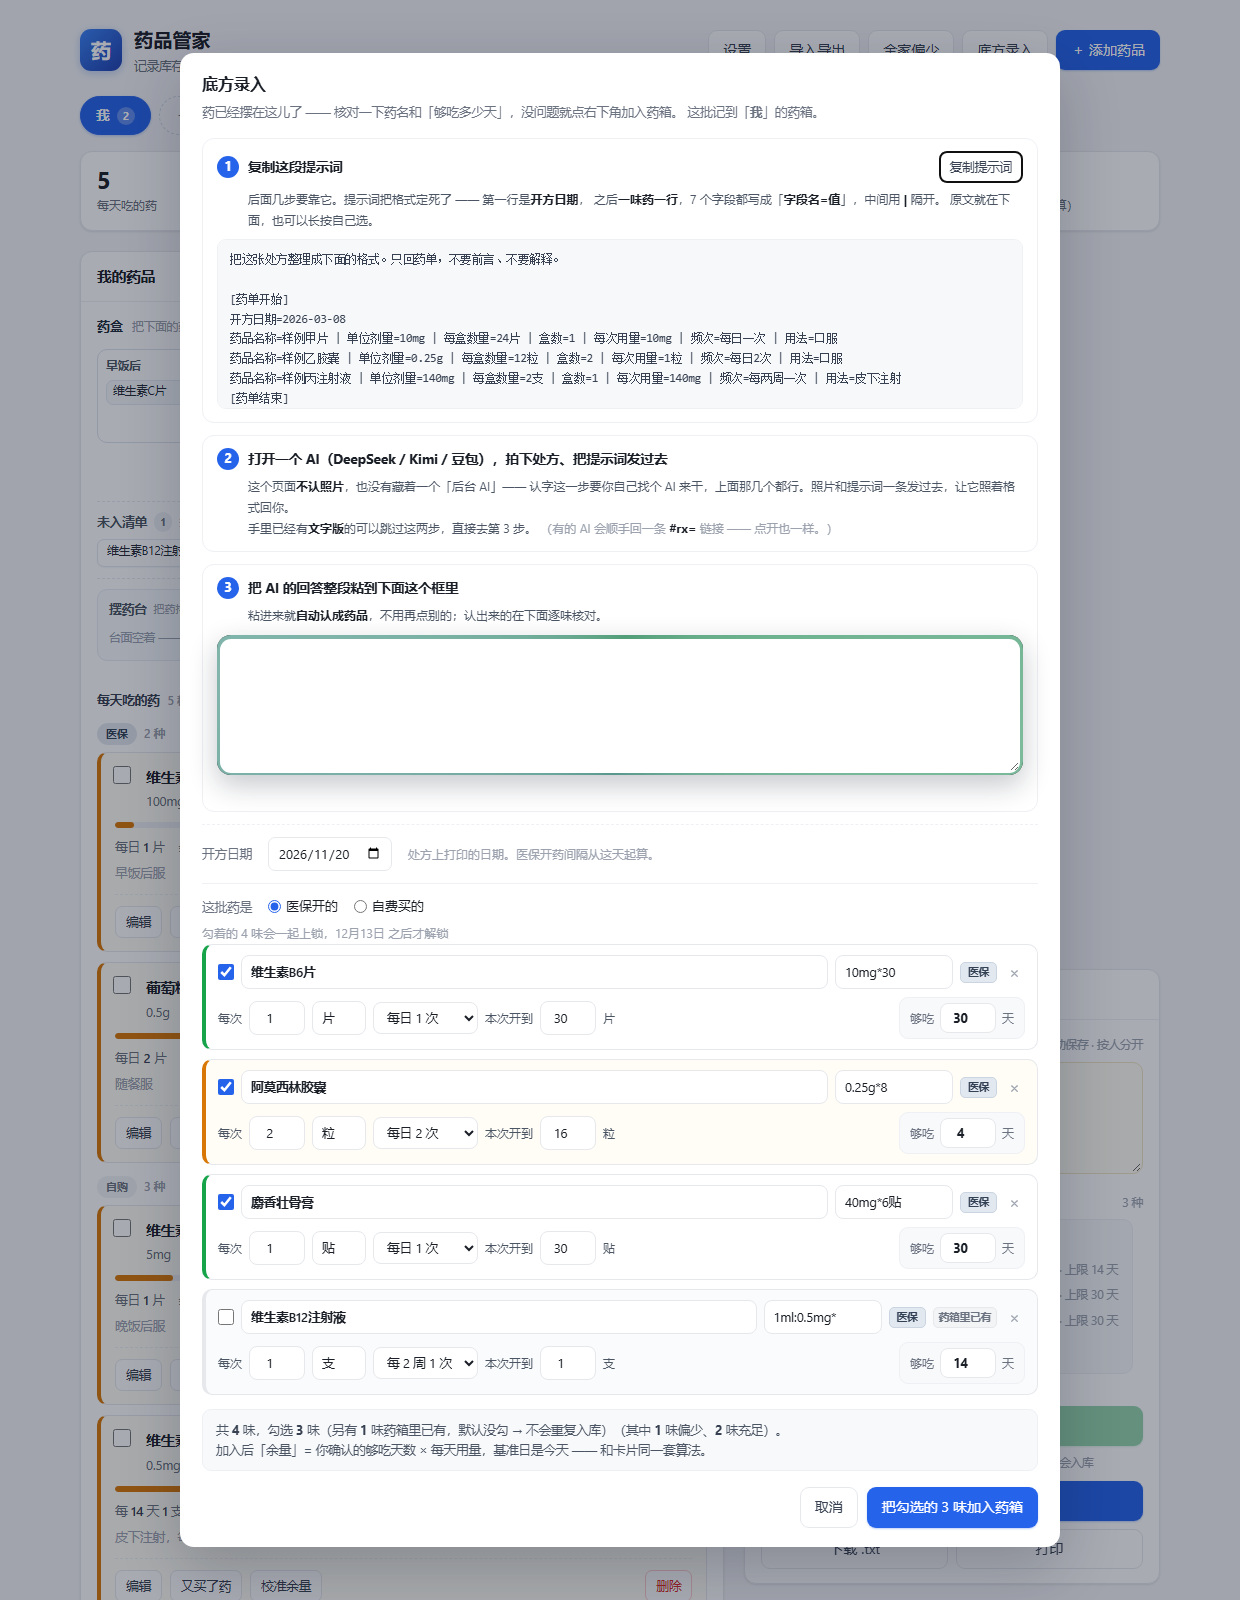
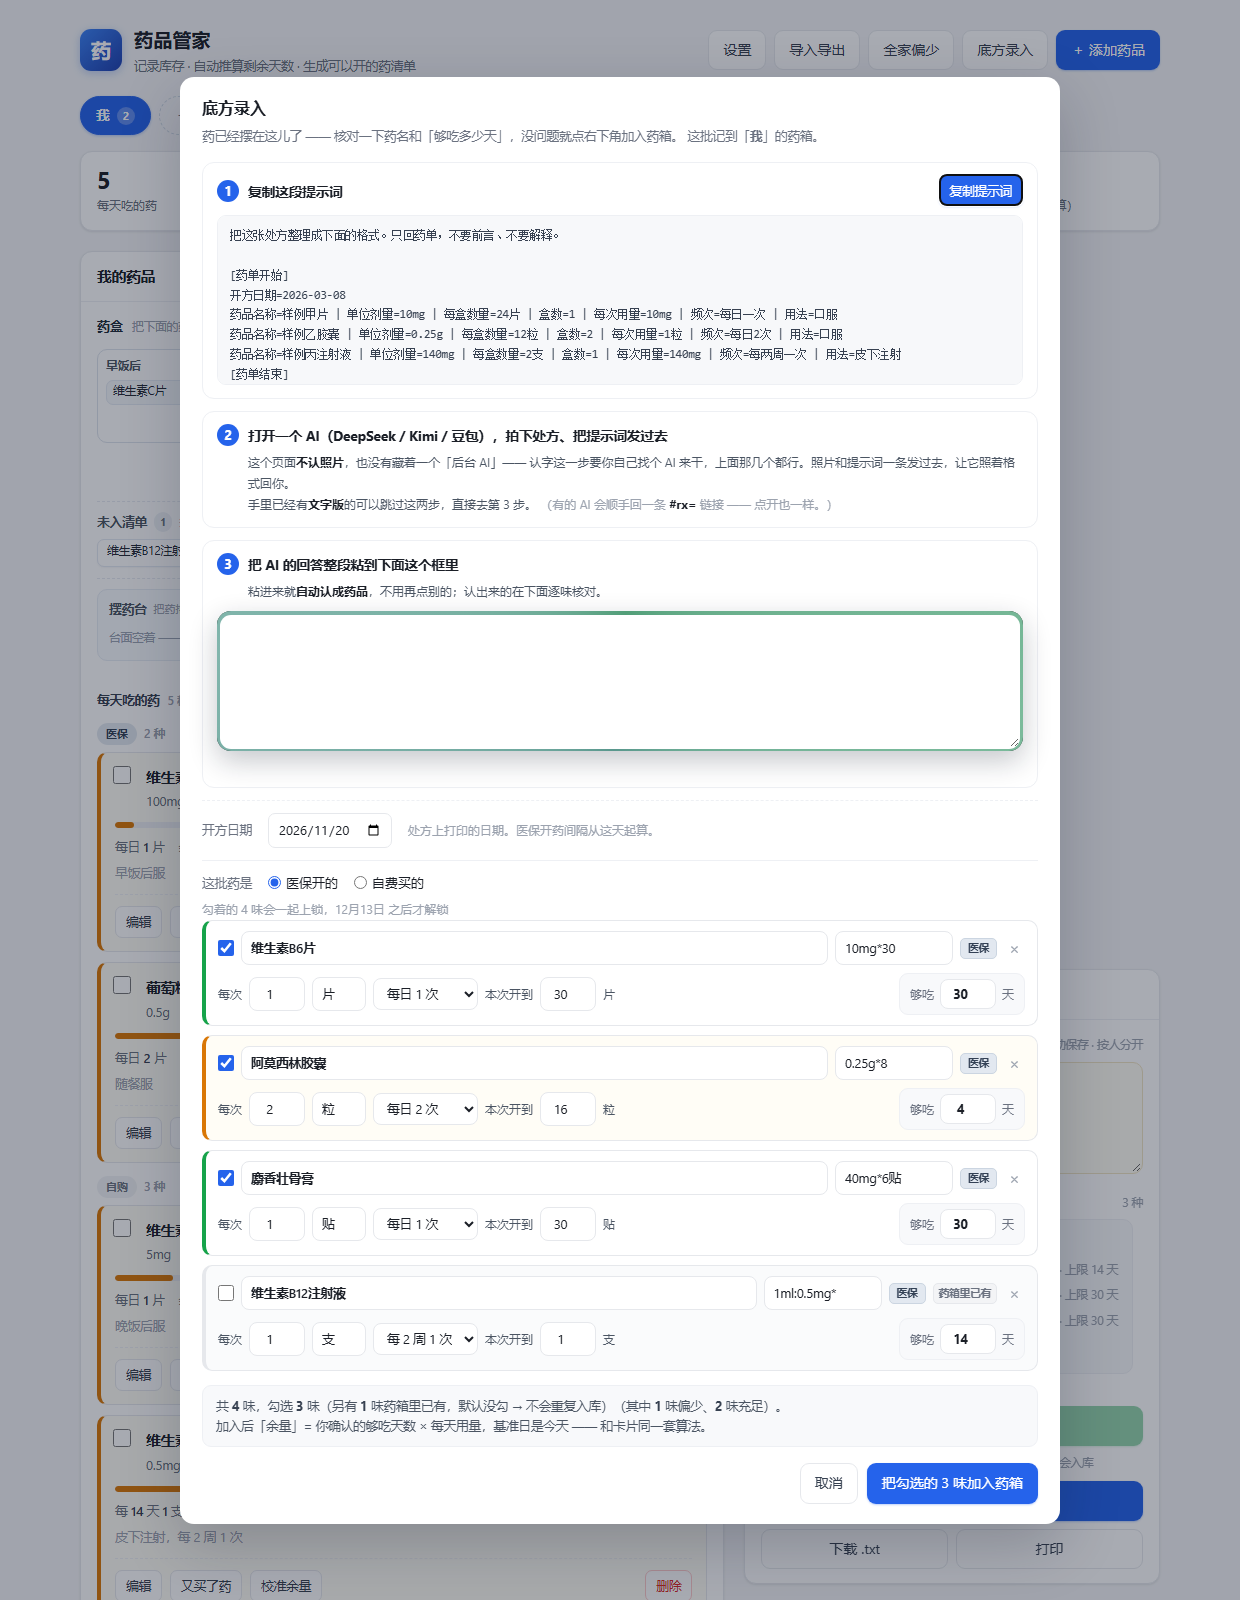
复制提示词按钮改实心主色、与标题同行，去掉第1步解释段

diff --git a/index.html b/index.html
@@ -744,10 +744,15 @@ input.wbad{border-color:#fca5a5;background:#fffafa}
 .rx-no{flex:none;width:22px;height:22px;border-radius:50%;background:var(--brand);color:#fff;
   display:grid;place-items:center;font-size:12.5px;font-weight:700;line-height:1;
   font-variant-numeric:tabular-nums}
-.rx-step-t{margin:0;flex:1 1 180px;font-size:13.5px;font-weight:680;line-height:1.5;color:var(--text)}
+/* 标题用 flex:1 1 auto + min-width:0 —— 原来写死 flex-basis:180px，加上按钮就超出容器，
+   按钮被折到第二行（2026-11-20 用户截图指出的问题）。这样标题让位、按钮稳稳留在同一行。 */
+.rx-step-t{margin:0;flex:1 1 auto;min-width:0;font-size:13.5px;font-weight:680;
+  line-height:1.5;color:var(--text)}
 .rx-step-d{margin:6px 0 0;padding-left:31px;font-size:12px;line-height:1.75;color:#4b5563}
 .rx-step-d b{color:var(--text);font-weight:650}
-.rx-step .btn.sm{flex:none}
+.rx-step .btn.sm{flex:none;white-space:nowrap}
+/* 第 1 步那一行：按钮紧挨着标题右侧，别被 flex-wrap 甩下去 */
+.rx-step-h-tpl{flex-wrap:nowrap}
 /* 第 1 步：提示词原文就摆在按钮下面，可以直接看、直接选（不用先复制才能看见） */
 .rx-tpl-pre{margin:9px 0 0;padding:10px 12px;max-height:170px;overflow:auto;
   font-family:ui-monospace,SFMono-Regular,Menlo,Consolas,monospace;
@@ -1377,14 +1382,14 @@ input.wbad{border-color:#fca5a5;background:#fffafa}
            2026-11-20 用户要求统一格式：「圈一复制提示词，圈二打开 AI（DeepSeek Kimi 豆包）、
            拍照片、把提示词发过去，圈三把 AI 的回答粘到下边的框里」。 -->
       <section class="rx-step" id="rxStep1">
-        <div class="rx-step-h">
+        <!-- ★ 2026-11-20：用户说「复制提示词这个按钮被排到下一行了，做成带颜色的按钮，
+             跟标题同一行；下边的解释就不要了，直接按钮 + 提示词内容」。
+             所以这里只有三样：号码、标题、实心按钮（同一行），下面直接是提示词原文。 -->
+        <div class="rx-step-h rx-step-h-tpl">
           <span class="rx-no">1</span>
           <h4 class="rx-step-t">复制这段提示词</h4>
-          <button type="button" class="btn ghost sm" id="btnRxTpl">复制提示词</button>
+          <button type="button" class="btn primary sm" id="btnRxTpl">复制提示词</button>
         </div>
-        <p class="rx-step-d">后面几步要靠它。提示词把格式定死了 —— 第一行是<b>开方日期</b>，
-          之后<b>一味药一行</b>，7 个字段都写成「<b>字段名=值</b>」，中间用 <b>|</b> 隔开。
-          原文就在下面，也可以长按自己选。</p>
         <pre class="rx-tpl-pre" id="rxTplText"></pre>
       </section>
 
@@ -6628,7 +6633,11 @@ $('#btnRxTpl').addEventListener('click', function(){
   const btn = $('#btnRxTpl');
   const done = function(){
     btn.textContent = '已复制 ✓';
-    setTimeout(function(){ btn.textContent = '复制提示词'; }, 1400);
+    btn.classList.add('success');          // 变绿一下：实心蓝按钮上光改字不够醒目
+    setTimeout(function(){
+      btn.textContent = '复制提示词';
+      btn.classList.remove('success');
+    }, 1400);
   };
   if(navigator.clipboard && navigator.clipboard.writeText){
     navigator.clipboard.writeText(RX_PROMPT).then(done, function(){ fallbackCopy(RX_PROMPT, done); });

diff --git a/_check/test_rx_tpl.py b/_check/test_rx_tpl.py
@@ -245,6 +245,16 @@ PROBE = r"""
     var tplBtn = q('#btnRxTpl');
     ck('底方录入弹窗里有「复制提示词」按钮', !!tplBtn);
     if(tplBtn){
+      // ★ 2026-11-20：用户截图指出按钮被折到第二行、且是白底描边的次要样式。
+      //   这里守三件事：实心带色 / 跟标题同一行 / 下面不再挂一段解释。
+      var _bcs = window.getComputedStyle(tplBtn);
+      ck('★ 「复制提示词」是实心带色按钮（不再是白底描边的次要按钮）',
+         !/rgba\(0, 0, 0, 0\)/.test(_bcs.backgroundColor) &&
+         !/rgb\(255, 255, 255\)/.test(_bcs.backgroundColor), _bcs.backgroundColor);
+      ck('第 1 步下面不再挂那段解释（用户要「直接按钮 + 提示词内容」）',
+         !tplBtn.closest('.rx-step').querySelector('.rx-step-d'));
+    }
+    if(tplBtn){
       tplBtn.click();
       await tick();
       ck('★ 点一下真把提示词写进了剪贴板（不是只改了个文案）',
@@ -592,6 +602,21 @@ PROBE = r"""
     fixtureBox(); openRx(); await null;
 
     var steps = document.querySelectorAll('#dlgRx .rx-step');
+    // 布局类的断言只能在这儿量：上面测剪贴板那段弹窗还没打开，元素高度都是 0。
+    var _dr = q('#dlgRx');
+    if(_dr && !_dr.open){ try{ _dr.showModal(); }catch(e){} }
+    await new Promise(function(r){ setTimeout(r, 40); });
+    (function(){
+      var b = q('#btnRxTpl'), t = q('#rxStep1 .rx-step-t');
+      if(!b || !t) return;
+      var bc = b.getBoundingClientRect(), tc = t.getBoundingClientRect();
+      ck('★ 复制按钮和标题在同一行（不再被挤到下一行）',
+         bc.height > 0 && Math.abs((bc.top + bc.height / 2) - (tc.top + tc.height / 2)) < 8,
+         '按钮中线 ' + (bc.top + bc.height / 2).toFixed(0) +
+         ' / 标题中线 ' + (tc.top + tc.height / 2).toFixed(0));
+      ck('按钮排在标题右边（不是压在标题上面）',
+         bc.left > tc.left + tc.width - 4, '按钮 left ' + bc.left.toFixed(0));
+    })();
     ck('弹窗里正好三步，用的是同一个 .rx-step 骨架（不再一块蓝一块绿）',
        steps.length === 3, steps.length + ' 步');
     var nos = [];
@@ -600,14 +625,9 @@ PROBE = r"""
       nos.push(n ? n.textContent.trim() : '?');
     }
     ck('三步的号码是 1 / 2 / 3，顺序没乱', nos.join('') === '123', nos.join('/'));
-    ck('每步都是「号码 + 大标题 + 一句解释」，一个都不缺',
-       (function(){
-         for(var k = 0; k < steps.length; k++){
-           if(!steps[k].querySelector('.rx-step-t')) return false;
-           if(!steps[k].querySelector('.rx-step-d')) return false;
-         }
-         return true;
-       })());
+    ck('第 1 步只留「号码 + 标题 + 按钮」，第 2/3 步仍各带一句解释',
+       !!steps[0].querySelector('.rx-step-t') && !steps[0].querySelector('.rx-step-d')
+       && !!steps[1].querySelector('.rx-step-d') && !!steps[2].querySelector('.rx-step-d'));
     ck('步骤标题依次是：复制提示词 / 打开一个 AI / 把回答粘到框里',
        /复制这段提示词/.test(steps[0].textContent)
        && /打开一个 AI/.test(steps[1].textContent)

diff --git a/README.md b/README.md
@@ -667,7 +667,7 @@ DeepSeek、Kimi、豆包，都行，就是你平时聊天那个窗口。
 弹窗里是三块同款卡片，**① ② ③** 排下来（2026-11-20 重排的 —— 原来一块蓝一块绿，
 看着乱）：
 
-1. **复制提示词** —— 提示词原文就摆在按钮下面，看得见、能长按选；
+1. **复制这段提示词** —— 标题右边就是那颗**实心的蓝色「复制提示词」按钮**（原来它是白底描边的次要按钮，还被挤到了下一行，2026-11-20 用户指出来后改成实心、跟标题并排）；点一下进剪贴板，提示词原文就摊在下面，看得见、能长按自己选。这一步**不放解释文字** —— 按钮和内容就够，多一句都是废话；
 2. **打开一个 AI**（DeepSeek / Kimi / 豆包），拍下处方、把提示词发过去；
 3. **把 AI 的回答整段粘到下面那个框里** —— **粘进来就自动认成药品**，不用再点任何按钮。
 
@@ -1057,7 +1057,7 @@ _check/test_ins.py        医保 / 自购的自检 —— 149 条（三个加药
 _check/test_prn.py        备用药那一类的自检 —— 87 条（每天吃 / 备用药分得开、备用药不按天扣、不进续方清单、没有勾选框、表单必填口径两套、改类型时余量不被改写、导入导出 kind 不丢）
 _check/test_box.py        药盒的自检 —— 242 条（默认 3 格、格数 1~7、**每一格自己的删除叉**（删指定那格 / 空格不问 / 只剩一格不给删 / 两个叉不串）、格名可改、**真把 PointerEvent 打进页面**验拖拽全链路、跨格是搬不是复制、未入清单的筛选与双向拖拽、摆药台连拖三次能摆满三格、药名折行的真实布局高度、备用药拖不进、删药清盒、按人分开、导出导入不丢、脏数据清洗、确认框真的弹/按钮真的能点/Esc 与点遮罩都算取消、**分药模式**（格子上不再挤勾选框、右下角那颗按钮真能开窗、窗比通用弹窗宽、一味药一行且行高齐平、按药记所以同一味那几行一起变、**药盒里的格子和名字一点都不跟**、清空勾、不动库存、不进存档、空盒不挂按钮、**窗口上方那排成员真能换人换盒且窗不关**、**#box 真内边距所以按钮不再贴着边框**）、**右栏「就诊准备」真的是 sticky、贴窗口底停住**、**清单再长也只滚清单、按钮不被挤出去**、以及那条"类名撞车"体检）
 _check/test_all.py        全家汇总的自检 —— 74 条（只在人数 > 1 时出现且紧跟「＋ 添加人」、药名+单位合并口径、同名异单位不许相加、天数不一要如实写、**改总量后多的全给余量最少的那位（按天数不按片数）**、减药从余量最多的扣且不扣成负数、「余量最少」小标标的就是真会拿到药的人、备用药不参与分配、单人那行也能调、giveDelta 的边界、调完存盘、一个人时入口消失）
-_check/test_rx_tpl.py     底方「提示词」那条路的自检 —— 133 条（另有 **弹窗排成 1/2/3 三步、格式统一、粘进来就自动认、认不出时留着原文、闲聊不当药名** 这一组）（提示词的 7 个**字段名**、**是功能性写法（没有自我解释）**、**开方日期的各种写法与入库后的 miStart**、把提示词示例喂回解析器必须一味不少、**一个服药时段都不许出现**、复制按钮真把文本写进剪贴板、[药单开始]/[药单结束] 切段挡住寒暄与提醒、七个字段逐个认、老写法不崩、**规格少一个 `*`（`[0.25ug36粒]`）也认、微克符号 `μg` 认得出来**、**字段化写法（`字段名=值` / 全角冒号 / 一行 JSON / 整段 JSON）都走得通、漏一个字段不连累别的数**、**服药时间只擦不解析**（「每日2次 睡前」仍是 2 次）、**入库后药盒一格都不动**、空盒也不建格、`#rx=` 链接带了 slots 同样无视）
+_check/test_rx_tpl.py     底方「提示词」那条路的自检 —— 144 条（另有 **弹窗排成 1/2/3 三步、格式统一、粘进来就自动认、认不出时留着原文、闲聊不当药名** 这一组）（提示词的 7 个**字段名**、**是功能性写法（没有自我解释）**、**开方日期的各种写法与入库后的 miStart**、把提示词示例喂回解析器必须一味不少、**一个服药时段都不许出现**、复制按钮真把文本写进剪贴板、[药单开始]/[药单结束] 切段挡住寒暄与提醒、七个字段逐个认、老写法不崩、**规格少一个 `*`（`[0.25ug36粒]`）也认、微克符号 `μg` 认得出来**、**字段化写法（`字段名=值` / 全角冒号 / 一行 JSON / 整段 JSON）都走得通、漏一个字段不连累别的数**、**服药时间只擦不解析**（「每日2次 睡前」仍是 2 次）、**入库后药盒一格都不动**、空盒也不建格、`#rx=` 链接带了 slots 同样无视）
 _check/test_fam.py        全家偏少的自检 —— 54 条（筛选阈值、排除备用药与没填用法的、按人分组、已用完排最前、去这个药箱能切人、单人不写"1 个人"、空态、换人后数据不串、一键复制的文字与页面口径一致且真的进了剪贴板）
 _check/test_rx_local.py   上面那个工具的纯函数自检 —— 67 项，不需要图片、不需要 OCR 语言包
 android/                  Android 壳：WebView 里装**同一个** index.html，编成能装的 APK
@@ -1087,7 +1087,7 @@ python _check/test_box.py         # 药盒 + 未入清单 + 摆药台 + 拖拽 +
 python _check/test_all.py         # 全家汇总（按药名合并 + 调总量补给余量最少的人）：74 项
 python _check/test_app.py         # Android 壳补丁（导出/复制/返回键）：29 项
 python _check/test_fam.py         # 全家偏少聚合页：50 项
-python _check/test_rx_tpl.py      # 底方提示词 + 字段化解析 + 开方日期 + 三步弹窗与自动解析：133 项
+python _check/test_rx_tpl.py      # 底方提示词 + 字段化解析 + 开方日期 + 三步弹窗与自动解析：144 项
 python _check/test_rx_local.py    # 本地解析工具：67 项（纯函数，跑得快）
 python _check/test_wiz.py         # 引导式填写（一次只问一件事）：93 项
 ```
